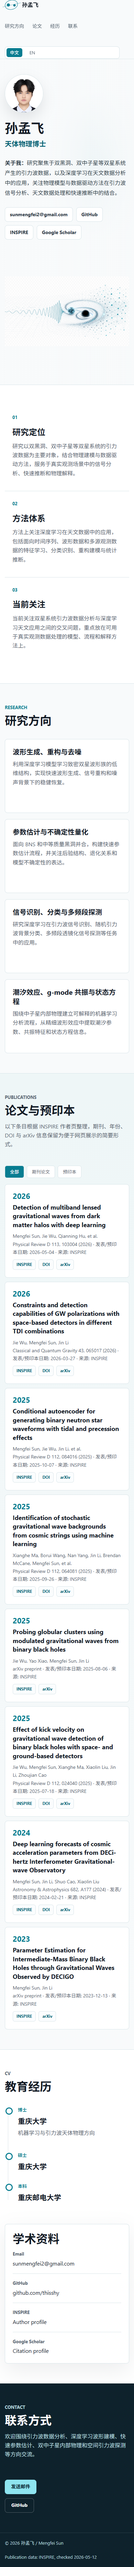
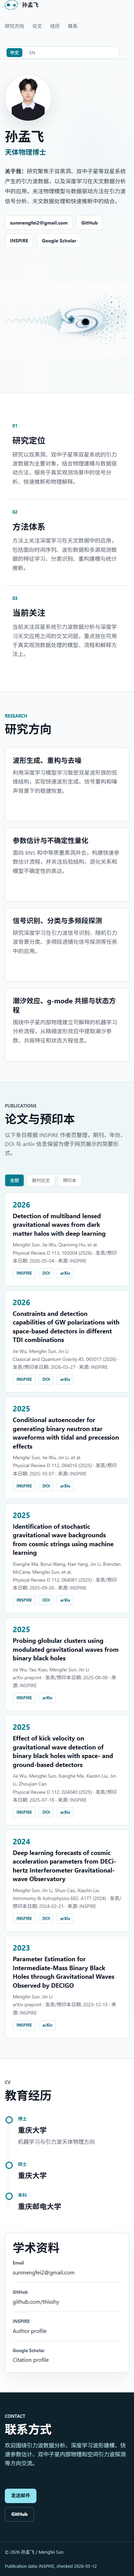
1

Changed region(s): [[0.0308, 0.0312, 0.9231, 0.9672], [0.0308, 0.8112, 0.0923, 0.8424], [0.8308, 0.936, 0.8615, 0.9672]]

diff --git a/assets/css/styles.css b/assets/css/styles.css
@@ -245,10 +245,11 @@ button {
 }
 
 .identity-line img {
-  width: 136px;
-  height: 136px;
-  object-fit: cover;
-  object-position: center top;
+  width: 164px;
+  height: 164px;
+  background: #fff;
+  object-fit: contain;
+  object-position: center center;
   border-radius: 50%;
   border: 1px solid var(--line);
   box-shadow: 0 18px 38px rgba(17, 25, 35, 0.1);
@@ -726,8 +727,8 @@ h1 small {
   }
 
   .identity-line img {
-    width: 112px;
-    height: 112px;
+    width: 136px;
+    height: 136px;
   }
 
   h1 {
